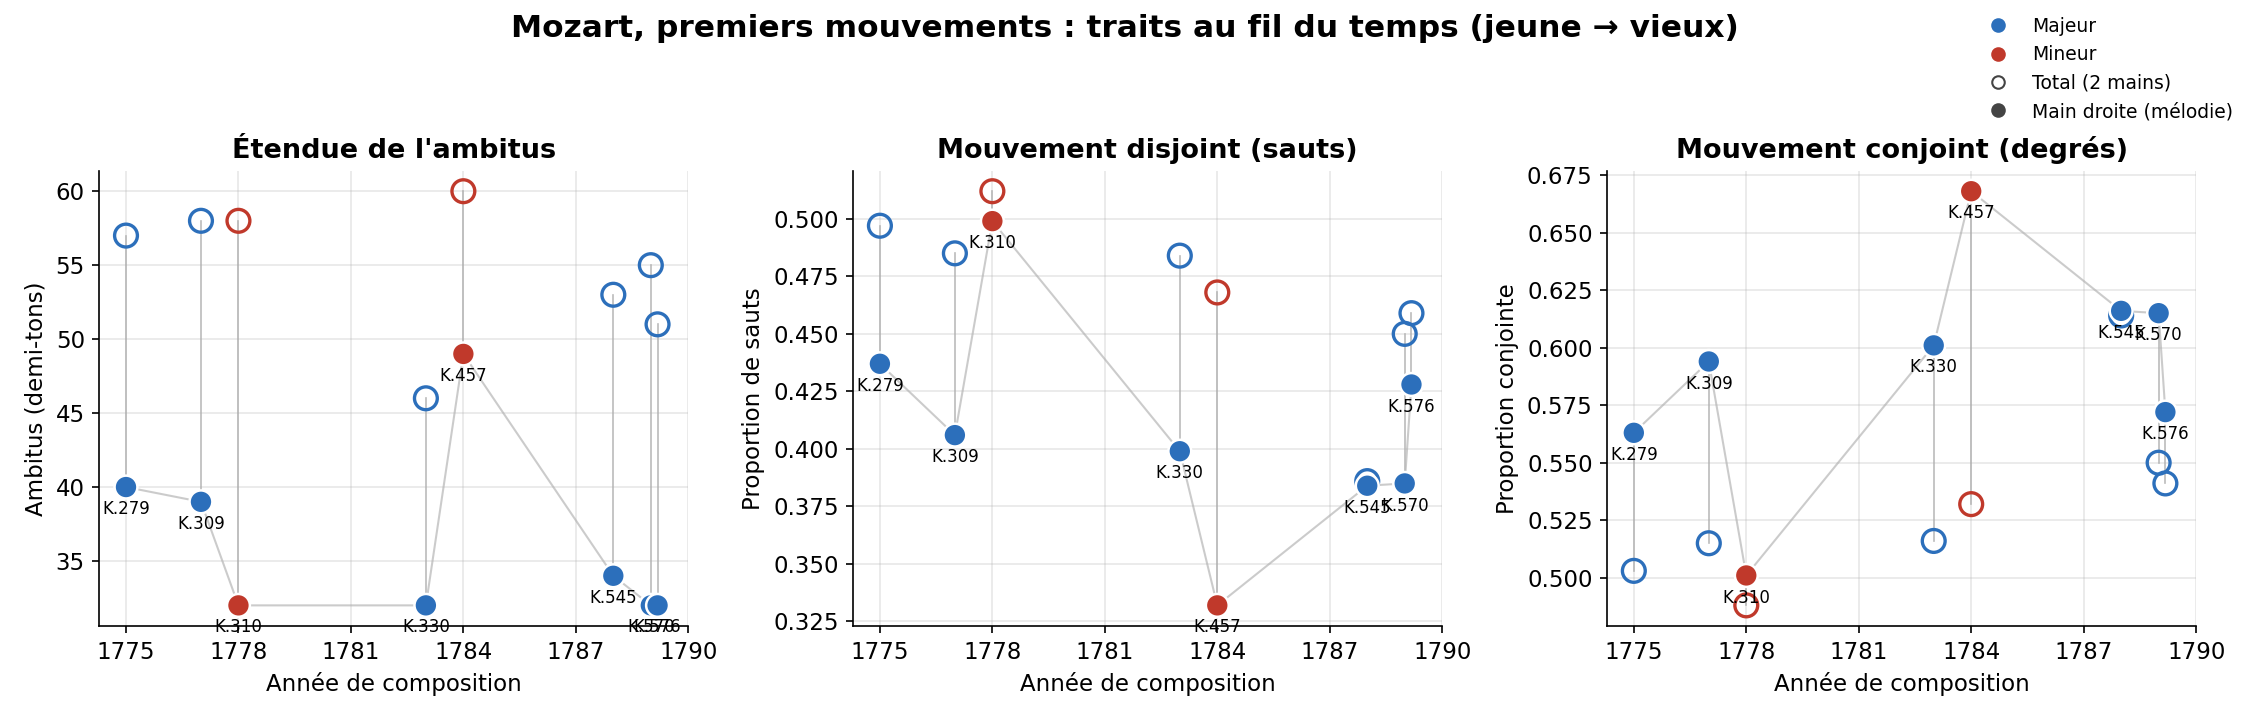
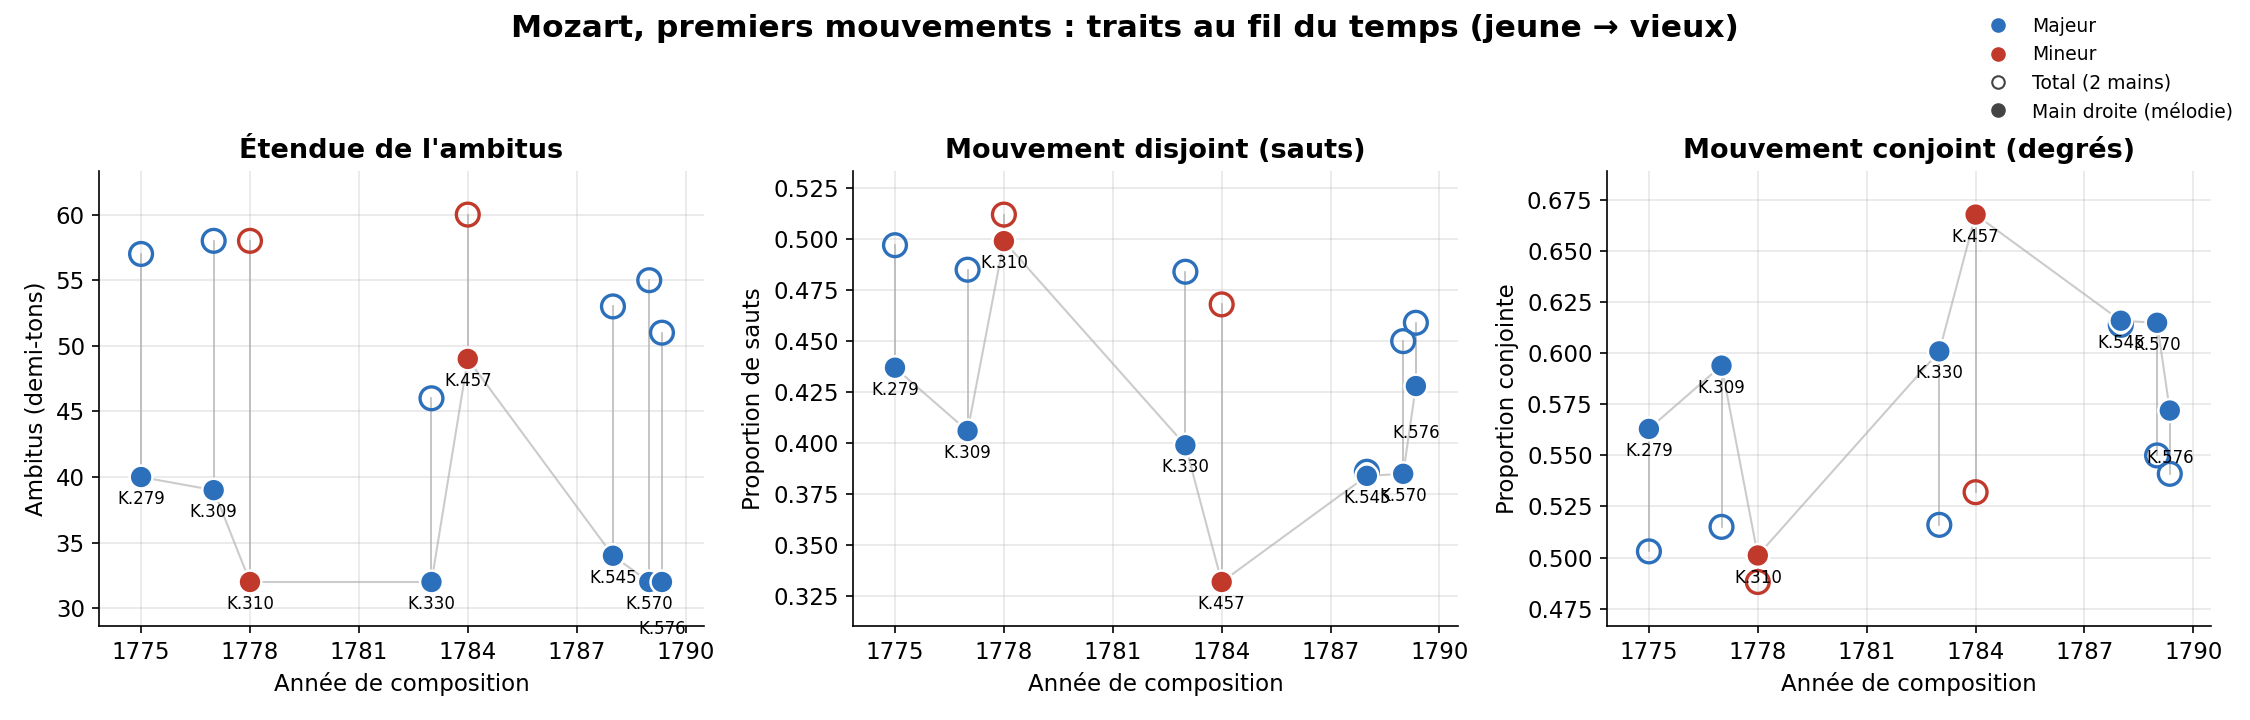
new spacing

diff --git a/slides.html b/slides.html
@@ -75,13 +75,44 @@
        une force méthodologique, pas une faiblesse.</p>
   </section>
 
-  <!-- 4. AMBITUS & MOUVEMENT -->
+  <!-- 4. AMBITUS & MOUVEMENT — vue d'ensemble puis un graphique par sous-slide (↓) -->
   <section>
-    <h3>Ambitus &amp; mouvement au fil du temps</h3>
-    <img src="fig_timeline.png" alt="Traits au fil du temps" style="width:90%">
-    <p class="small">○ total (2 mains) · ● main droite (mélodie) — <span class="accent">rouge = mineur</span>.
-       <br><strong>K.310</strong> : le caractère « disjoint » vient de la <em>basse</em> (total 0,51)
-       et non de la mélodie (MD 0,50).</p>
+
+    <!-- 4a. Vue d'ensemble (les trois ensemble) -->
+    <section>
+      <h3>Ambitus &amp; mouvement au fil du temps</h3>
+      <img src="fig_timeline.png" alt="Traits au fil du temps" style="width:90%">
+      <p class="small">○ total (2 mains) · ● main droite (mélodie) — <span class="accent">rouge = mineur</span>.
+         <br><strong>K.310</strong> : le caractère « disjoint » vient de la <em>basse</em> (total 0,51)
+         et non de la mélodie (MD 0,50).</p>
+      <p class="small muted">↓ détail de chaque graphique</p>
+    </section>
+
+    <!-- 4b. Ambitus -->
+    <section>
+      <h3>Étendue de l'ambitus</h3>
+      <img src="fig_timeline_ambitus.png" alt="Étendue de l'ambitus au fil du temps" style="height:480px">
+      <p class="small">Écart, en demi-tons, entre la note la plus grave et la plus aiguë.
+         ○ total (2 mains) · ● main droite — <span class="accent">rouge = mineur</span>.</p>
+    </section>
+
+    <!-- 4c. Mouvement disjoint -->
+    <section>
+      <h3>Mouvement disjoint (sauts)</h3>
+      <img src="fig_timeline_leap.png" alt="Proportion de sauts au fil du temps" style="height:480px">
+      <p class="small">Proportion d'intervalles &gt; une seconde.
+         <strong>K.310</strong> : le caractère « disjoint » vient de la <em>basse</em> (total 0,51)
+         et non de la mélodie (MD 0,50).</p>
+    </section>
+
+    <!-- 4d. Mouvement conjoint -->
+    <section>
+      <h3>Mouvement conjoint (degrés)</h3>
+      <img src="fig_timeline_step.png" alt="Proportion conjointe au fil du temps" style="height:480px">
+      <p class="small">Proportion de mouvements par degré conjoint (seconde).
+         ○ total (2 mains) · ● main droite — <span class="accent">rouge = mineur</span>.</p>
+    </section>
+
   </section>
 
   <!-- 5. TONALITÉS -->

diff --git a/plot_features.py b/plot_features.py
@@ -32,51 +32,81 @@ colors  = [MIN if m else MAJ for m in is_min]
 
 
 def jitter_years(ys):
-    """nudge coincident years apart so labels don't overlap (1789 has two)."""
+    """nudge coincident years apart so labels don't overlap (1789 has two).
+
+    Returns (jittered_x, dup_index) where dup_index is the 0-based rank of a year
+    among its duplicates — used to stagger label vspace so they don't collide.
+    """
     ys = list(ys); seen = {}
-    out = []
+    xs, dups = [], []
     for y in ys:
         k = seen.get(y, 0); seen[y] = k + 1
-        out.append(y + k * 0.18)
-    return out
+        xs.append(y + k * 0.35); dups.append(k)
+    return xs, dups
+
+
+# (total column, RH column, y-label, title, slug). Filled marker = RH (melody),
+# hollow marker = total (both hands). Slug names the standalone per-panel PNG.
+FEATS = [
+    ("ambitus_total_st", "ambitus_rh_st", "Ambitus (demi-tons)", "Étendue de l'ambitus", "ambitus"),
+    ("leap_ratio_total", "leap_ratio_rh", "Proportion de sauts", "Mouvement disjoint (sauts)", "leap"),
+    ("step_ratio_total", "step_ratio_rh", "Proportion conjointe", "Mouvement conjoint (degrés)", "step"),
+]
+
+
+def _draw_panel(ax, kt, krh, ylab, title, xs, dups):
+    """Draw one feature panel onto ax (shared by the composite and the standalones)."""
+    yt, yrh = col(kt), col(krh)
+    # connect RH points in chronological order
+    order = sorted(range(len(years)), key=lambda i: years[i])
+    ax.plot([xs[i] for i in order], [yrh[i] for i in order],
+            color="#999", lw=1, zorder=1, alpha=0.5)
+    # total = hollow, RH = filled, thin grey link between the pair
+    for x, vt, vrh, c in zip(xs, yt, yrh, colors):
+        ax.plot([x, x], [vt, vrh], color="#bbb", lw=0.8, zorder=1)
+    ax.scatter(xs, yt, facecolors="none", edgecolors=colors, s=120,
+               linewidth=1.6, zorder=2)
+    ax.scatter(xs, yrh, c=colors, s=120, zorder=3, edgecolor="white", linewidth=1.2)
+    # stagger label vspace for same-year works (K.570/K.576) so they don't collide
+    for x, y, lab, k in zip(xs, yrh, labels, dups):
+        ax.annotate(lab, (x, y), xytext=(0, -13 - 12 * k), textcoords="offset points",
+                    ha="center", fontsize=8)
+    ax.set_title(title); ax.set_xlabel("Année de composition"); ax.set_ylabel(ylab)
+    ax.set_xticks([1775, 1778, 1781, 1784, 1787, 1790])
+    # breathing room so labels/points don't crowd the axes
+    ax.margins(x=0.08, y=0.12)
+
+
+def _legend_handles():
+    return [plt.Line2D([], [], marker="o", ls="", color=MAJ, label="Majeur"),
+            plt.Line2D([], [], marker="o", ls="", color=MIN, label="Mineur"),
+            plt.Line2D([], [], marker="o", ls="", mfc="none", mec="#444", label="Total (2 mains)"),
+            plt.Line2D([], [], marker="o", ls="", color="#444", label="Main droite (mélodie)")]
 
 
 def timeline():
-    # (total column, RH column, y-label, title). Filled marker = RH (melody),
-    # hollow marker = total (both hands).
-    feats = [
-        ("ambitus_total_st", "ambitus_rh_st", "Ambitus (demi-tons)", "Étendue de l'ambitus"),
-        ("leap_ratio_total", "leap_ratio_rh", "Proportion de sauts", "Mouvement disjoint (sauts)"),
-        ("step_ratio_total", "step_ratio_rh", "Proportion conjointe", "Mouvement conjoint (degrés)"),
-    ]
+    xs, dups = jitter_years(years)
     fig, axes = plt.subplots(1, 3, figsize=(15, 4.8))
-    xs = jitter_years(years)
-    for ax, (kt, krh, ylab, title) in zip(axes, feats):
-        yt, yrh = col(kt), col(krh)
-        # connect RH points in chronological order
-        order = sorted(range(len(years)), key=lambda i: years[i])
-        ax.plot([xs[i] for i in order], [yrh[i] for i in order],
-                color="#999", lw=1, zorder=1, alpha=0.5)
-        # total = hollow, RH = filled, thin grey link between the pair
-        for x, vt, vrh, c in zip(xs, yt, yrh, colors):
-            ax.plot([x, x], [vt, vrh], color="#bbb", lw=0.8, zorder=1)
-        ax.scatter(xs, yt, facecolors="none", edgecolors=colors, s=120,
-                   linewidth=1.6, zorder=2)
-        ax.scatter(xs, yrh, c=colors, s=120, zorder=3, edgecolor="white", linewidth=1.2)
-        for x, y, lab in zip(xs, yrh, labels):
-            ax.annotate(lab, (x, y), xytext=(0, -13), textcoords="offset points",
-                        ha="center", fontsize=8)
-        ax.set_title(title); ax.set_xlabel("Année de composition"); ax.set_ylabel(ylab)
-        ax.set_xticks([1775, 1778, 1781, 1784, 1787, 1790])
-    handles = [plt.Line2D([], [], marker="o", ls="", color=MAJ, label="Majeur"),
-               plt.Line2D([], [], marker="o", ls="", color=MIN, label="Mineur"),
-               plt.Line2D([], [], marker="o", ls="", mfc="none", mec="#444", label="Total (2 mains)"),
-               plt.Line2D([], [], marker="o", ls="", color="#444", label="Main droite (mélodie)")]
-    fig.legend(handles=handles, loc="upper right", frameon=False, fontsize=9)
+    for ax, (kt, krh, ylab, title, _) in zip(axes, FEATS):
+        _draw_panel(ax, kt, krh, ylab, title, xs, dups)
+    fig.legend(handles=_legend_handles(), loc="upper right", frameon=False, fontsize=9)
     fig.suptitle("Mozart, premiers mouvements : traits au fil du temps (jeune → vieux)",
                  fontsize=15, fontweight="bold")
     fig.tight_layout(rect=[0, 0, 1, 0.92])
     fig.savefig("fig_timeline.png"); print("-> fig_timeline.png")
+
+
+def timeline_panels():
+    """One standalone PNG per feature, for the per-graphic detail slides."""
+    xs, dups = jitter_years(years)
+    for kt, krh, ylab, title, slug in FEATS:
+        fig, ax = plt.subplots(figsize=(10.5, 6.2))
+        _draw_panel(ax, kt, krh, ylab, title, xs, dups)
+        ax.legend(handles=_legend_handles(), loc="best", frameon=False, fontsize=9)
+        fig.tight_layout()
+        out = f"fig_timeline_{slug}.png"
+        fig.savefig(out); print(f"-> {out}")
+        plt.close(fig)
 
 
 def parse_key(nominal):
@@ -126,4 +156,5 @@ def circle_of_fifths():
 
 if __name__ == "__main__":
     timeline()
+    timeline_panels()
     circle_of_fifths()
